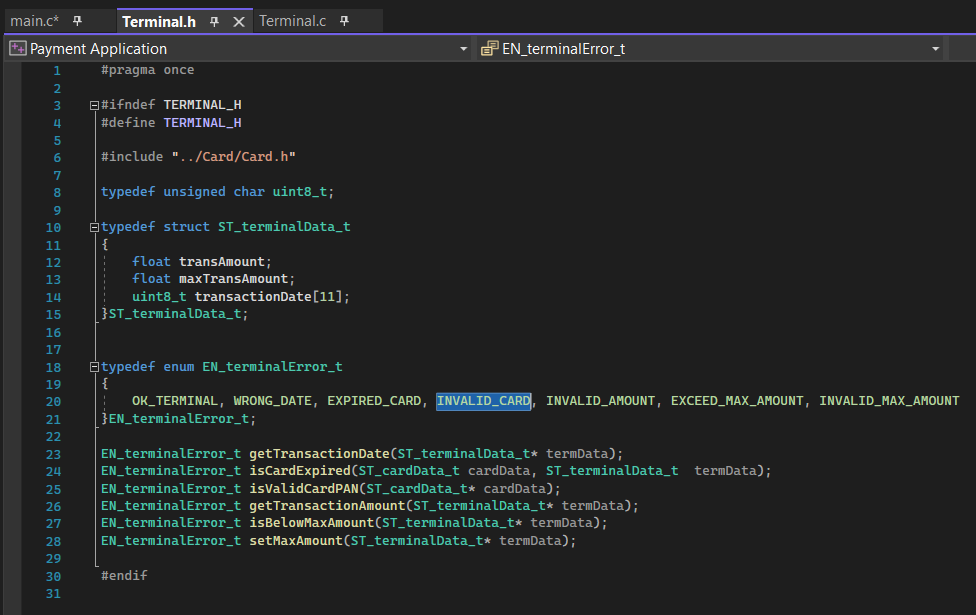
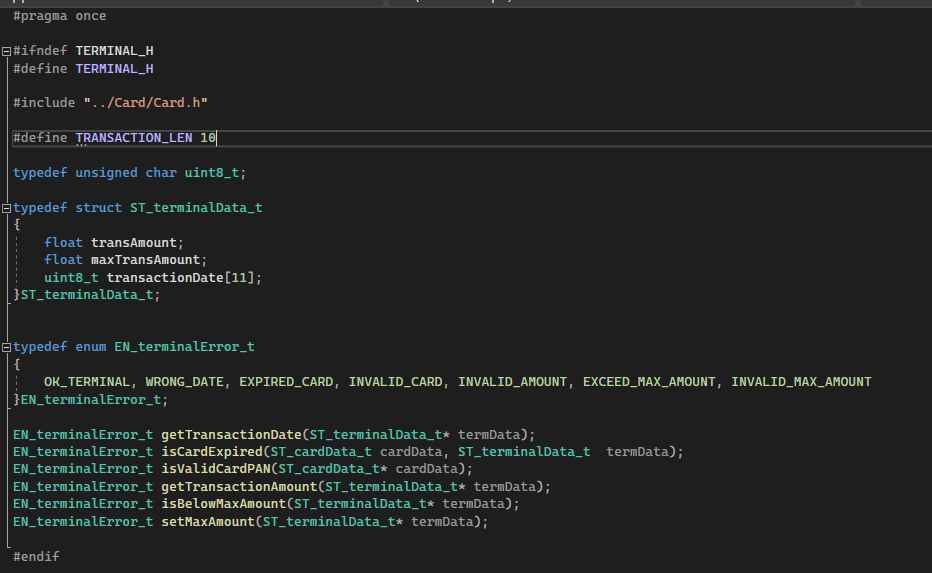
Terminal HeaderFile

Changed region(s): [[0.0, 0.2967, 0.9957, 0.9791], [0.0, 0.0, 1.0, 0.267]]

diff --git a/Payment Application/Terminal/Terminal.h b/Payment Application/Terminal/Terminal.h
@@ -5,6 +5,8 @@
 
 #include "../Card/Card.h"
 
+#define TRANSACTION_LEN 10
+
 typedef unsigned char uint8_t;
 
 typedef struct ST_terminalData_t
